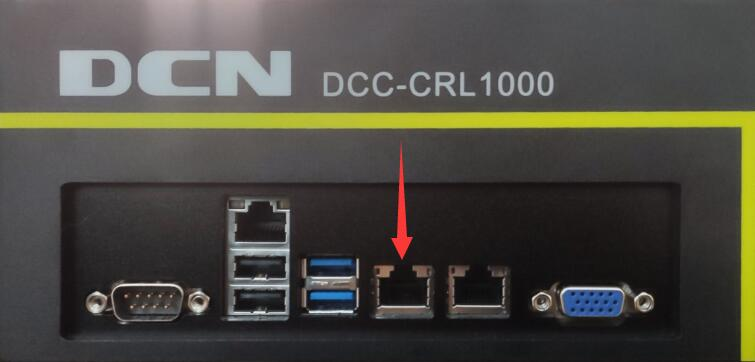
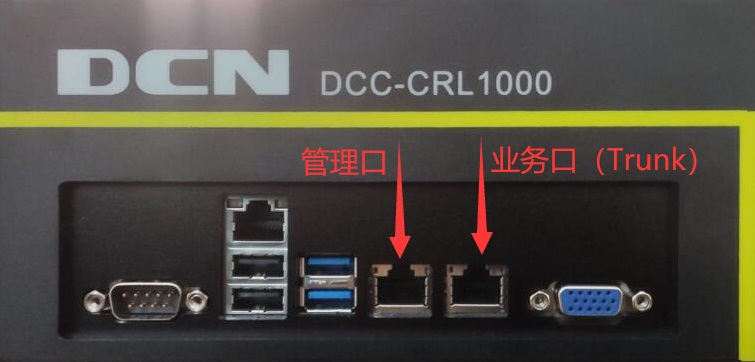
update DCC-CRL1000

diff --git a/docs/serve/VM/DCC-CRL1000/README.md b/docs/serve/VM/DCC-CRL1000/README.md
@@ -38,11 +38,11 @@
 当前 IP：<http://192.168.100.100/dashboard>
 :::
 
+![云平台前面板](./img/00.jpg)
+
 ### 网线直连
 
-将网线一头接电脑，另一头接云平台 **中间** 的网线口。
-
-![云平台前面板](./img/00.jpg)
+将网线一头接电脑，另一头接云平台 **管理口**。
 
 如下设置自己的网络状态：
 
@@ -52,9 +52,25 @@
 
 ### 使用交换机
 
-将网线一头接交换机，另一头接云平台 **中间** 的网线口。
+使用两根网线将云平台的 **管理口** 与 **业务口** 接交换机，并将电脑链接到交换机。
 
-![云平台前面板](./img/00.jpg)
+设置交换机 **业务口** 使用 `Trunk` 模式：
+
+```text {5}
+S5750E-28C-SI>enable 
+S5750E-28C-SI#config          
+S5750E-28C-SI(config)#interface ethernet 1/0/13
+S5750E-28C-SI(config-if-ethernet1/0/13)#switchport mode trunk 
+Set the port Ethernet1/0/13 mode Trunk successfully
+```
+
+![云平台典型用例](./img/02.jpg)
+
+**注意！** 创建网络时的 **分段标识** 要与交换机 Vlan 对应！详见[创建外部vlan网络](#创建外部vlan网络)
+
+![创建网络](./img/创建网络.png)
+
+### 更新云平台 IP
 
 将显示器与键盘插上云平台，使用 `root` 账户（默认密码：`dcncloud`）登入云平台系统。
 
@@ -69,18 +85,6 @@ resetip
 - 设置默认网关：（<kbd>Enter</kbd> 确认）
 
 ![7-3](./img/setup7-3.jpg)
-
-设置交换机端口使用 `Trunk` 模式：
-
-```text {5}
-S5750E-28C-SI>enable 
-S5750E-28C-SI#config          
-S5750E-28C-SI(config)#interface ethernet 1/0/13
-S5750E-28C-SI(config-if-ethernet1/0/13)#switchport mode trunk 
-Set the port Ethernet1/0/13 mode Trunk successfully
-```
-
-![云平台典型用例](./img/02.jpg)
 
 ## 默认密码
 
@@ -111,44 +115,42 @@ CentOS 6.5/7 镜像系统密码：
 <!-- 待补充图片 -->
 
 ## 创建外部vlan网络
+
 点击左侧“管理员”下面“系统“栏下面的“网络” 
 
 点击网络右侧界面的“创建网络”按钮，
 
 ![03](./img/03.jpg)
+
 点击网络右侧界面的“创建网络”按钮
 
-创建一个名称
-为“vlan10”的网络，
+创建一个名称为“vlan10”的网络：
 
-项目“admin”，供应商网络类型“VLAN”,
-
-物理网络“default”
-
-分段标识“10”
+- 项目：admin
+- 供应商网络类型：VLAN
+- 物理网络：default
+- 分段标识：10（此处与交换机 VLAN 对应）
 
 ID 为“10”与交换机中需要开启 VLAN10，连接云服务实训平台的 eth2 的交换机端口必须是 trunk 口而且放行 vlan10 的流量，注意在外部网络前面方框中打“√”
 
 ![04](./img/04.jpg)
-点击“提交”按钮后，点击右侧界面“网络名称”下面的
-vlan10 
 
+点击“提交”按钮后，点击右侧界面“网络名称”下面的 vlan10
 
 ![05](./img/05.jpg)
 ![06](./img/06.jpg)
+
 我们为 vlan10 网络添加子网，点击“创建子网”按钮。
 
-
-- 名称为“vlan10-subnet”
-- 网络地址“192.168.100.0/24” 
-
-- 网关“192.168.100.1”（这里的网关要和外部交换机设置的网关相对应）
-
-- 激活DHCP 服务，网络范围为“192.168.100.100，192.168.100.200”
+- 名称为：vlan10-subnet
+- 网络地址：192.168.100.0/24
+- 网关：192.168.100.1（这里的网关要和外部交换机设置的网关相对应）
+- 启用 DHCP 服务，分配池为:`192.168.100.100，192.168.100.200`
 
 ![07](./img/07.jpg)
 ![08](./img/08.jpg)
-点击`已创建`
+
+点击 **已创建**
 
 ## 创建实例
 
